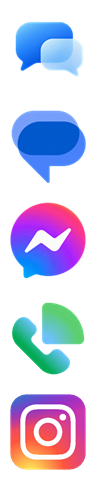
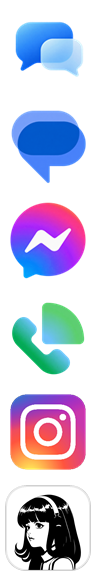
Build 2c48c359877b

diff --git a/src/NativeBeeper.Host.Network/ServerPage.cs b/src/NativeBeeper.Host.Network/ServerPage.cs
@@ -1071,7 +1071,7 @@ internal sealed partial class ServerPage
         + ".sec a:not(.button):not(.go):not(.item),.row a:not(.button):not(.item),button.link{color:var(--soft);font:inherit;font-size:13px;text-decoration:underline;text-decoration-color:var(--fieldline);text-underline-offset:3px;white-space:nowrap;background:none;border:0;padding:0;cursor:pointer}.sec a:not(.button):not(.go):not(.item):hover,.row a:not(.button):not(.item):hover,button.link:hover{color:var(--fg);background:none}"
         + "a.go{color:var(--fg);text-decoration:none}a.go:hover{background:var(--rowhover)}a.go:hover .chev{border-color:var(--soft)}a.go[aria-expanded=true] .chev{transform:rotate(135deg)}form.plain{display:inline;margin:0}"
         + ".more{display:flex;gap:8px;flex-wrap:wrap;align-items:center;padding:0 16px 12px 54px;margin:0}.more.flat{padding-left:16px}.hint{color:var(--muted);font-size:13px;margin:8px 2px 0}.more .hint{margin:0}.more .copy{overflow-wrap:anywhere;color:var(--muted)}.more details{width:100%;margin:0}.more details p{margin:6px 0}.more pre{margin:6px 0 8px}"
-        + ".ic{width:24px;height:24px;flex:none;display:block;background:url(/page-pictures.png) no-repeat;background-size:24px 120px}.ic.logo{width:22px;height:22px;background-size:22px 110px}.ic.gm{background-position:0 -24px}.ic.me{background-position:0 -48px}.ic.gv{background-position:0 -72px}.ic.ig{background-position:0 -96px}"
+        + ".ic{width:24px;height:24px;flex:none;display:block;background:url(/page-pictures.png) no-repeat;background-size:24px 144px}.ic.logo{width:22px;height:22px;background-size:22px 132px}.ic.gm{background-position:0 -24px}.ic.me{background-position:0 -48px}.ic.gv{background-position:0 -72px}.ic.ig{background-position:0 -96px}.ic.hm{background-position:0 -120px}"
         + "a.go:focus{outline:none}a.go:focus-visible{outline:2px solid var(--acc);outline-offset:-2px}:focus-visible{outline:2px solid var(--acc);outline-offset:2px}"
         // Everything else: the cards of the pages under /manage, the forms and the steps of setting up.
         + "section{background:var(--box);border:1px solid var(--line);border-radius:12px;padding:16px 18px;margin:0 0 20px}section.attention{background:var(--warnbg);border-color:var(--warnline)}section>:last-child{margin-bottom:0}"

diff --git a/src/NativeBeeper.Host.Network/ServerPage.Hermes.cs b/src/NativeBeeper.Host.Network/ServerPage.Hermes.cs
@@ -23,12 +23,10 @@ internal sealed partial class ServerPage
 
     private static bool IsHermesPath(string? path) => path is "/hermes";
 
-    // Its own mark, drawn here: the picture the page draws the four services' marks from has none for it.
-    private const string HermesMark = "<span class=\"ic hm\" aria-hidden=\"true\"><svg viewBox=\"0 0 24 24\" width=\"24\" height=\"24\"><rect width=\"24\" height=\"24\" rx=\"6\" fill=\"#5b4bd1\"/>"
-        + "<path d=\"M5 15.5c2.6-.2 4.6-1.4 6-3.6 1.6-2.4 3.9-3.8 7.5-4.1-1.3 1-2.1 2.1-2.4 3.4 1-.2 1.8-.2 2.6 0-1.6 1.1-3.3 1.8-5 2-1.4 2-3.9 2.8-8.7 2.3z\" fill=\"#fff\"/>"
-        + "<circle cx=\"7.5\" cy=\"9\" r=\"1.6\" fill=\"#fff\"/></svg></span>";
+    // Hermes Agent's own app icon, the sixth picture in the page's sprite (THIRD_PARTY_NOTICES.md).
+    private const string HermesMark = "<span class=\"ic hm\" aria-hidden=\"true\"></span>";
 
-    private const string HermesStyle = ".ic.hm{background:none}.ic.hm svg{display:block}fieldset.hp{border:1px solid var(--line);border-radius:12px;padding:12px 16px 2px;margin:0 0 14px}"
+    private const string HermesStyle = "fieldset.hp{border:1px solid var(--line);border-radius:12px;padding:12px 16px 2px;margin:0 0 14px}"
         + "fieldset.hp legend{padding:0 6px;font-weight:600}label.check{display:flex;align-items:center;gap:8px;font-weight:400;margin:0 0 12px}label.check input{margin:0}";
 
     // A profile's state in the page's words.

diff --git a/THIRD_PARTY_NOTICES.md b/THIRD_PARTY_NOTICES.md
@@ -25,6 +25,34 @@ LIABILITY, WHETHER IN AN ACTION OF CONTRACT, TORT OR OTHERWISE, ARISING FROM,
 OUT OF OR IN CONNECTION WITH THE SOFTWARE OR THE USE OR OTHER DEALINGS IN THE
 SOFTWARE.
 
+# Hermes Agent icon
+
+A Hermes conversation's default picture and the Hermes picture on the server's page are Hermes Agent's app icon
+(`assets/icon-master.svg`, rendered as `apps/desktop/assets/icon.png`), from https://github.com/NousResearch/hermes-agent .
+"Hermes", "Hermes Agent" and the icon identify Nous Research's software; Message Link is not made or endorsed by Nous Research.
+
+MIT License
+
+Copyright (c) 2025 Nous Research
+
+Permission is hereby granted, free of charge, to any person obtaining a copy
+of this software and associated documentation files (the "Software"), to deal
+in the Software without restriction, including without limitation the rights
+to use, copy, modify, merge, publish, distribute, sublicense, and/or sell
+copies of the Software, and to permit persons to whom the Software is
+furnished to do so, subject to the following conditions:
+
+The above copyright notice and this permission notice shall be included in all
+copies or substantial portions of the Software.
+
+THE SOFTWARE IS PROVIDED "AS IS", WITHOUT WARRANTY OF ANY KIND, EXPRESS OR
+IMPLIED, INCLUDING BUT NOT LIMITED TO THE WARRANTIES OF MERCHANTABILITY,
+FITNESS FOR A PARTICULAR PURPOSE AND NONINFRINGEMENT. IN NO EVENT SHALL THE
+AUTHORS OR COPYRIGHT HOLDERS BE LIABLE FOR ANY CLAIM, DAMAGES OR OTHER
+LIABILITY, WHETHER IN AN ACTION OF CONTRACT, TORT OR OTHERWISE, ARISING FROM,
+OUT OF OR IN CONNECTION WITH THE SOFTWARE OR THE USE OR OTHER DEALINGS IN THE
+SOFTWARE.
+
 # Inter
 
 The server's page is set in Inter (its variable Latin subset, as packaged by Fontsource 5.3.0), from https://github.com/rsms/inter .
